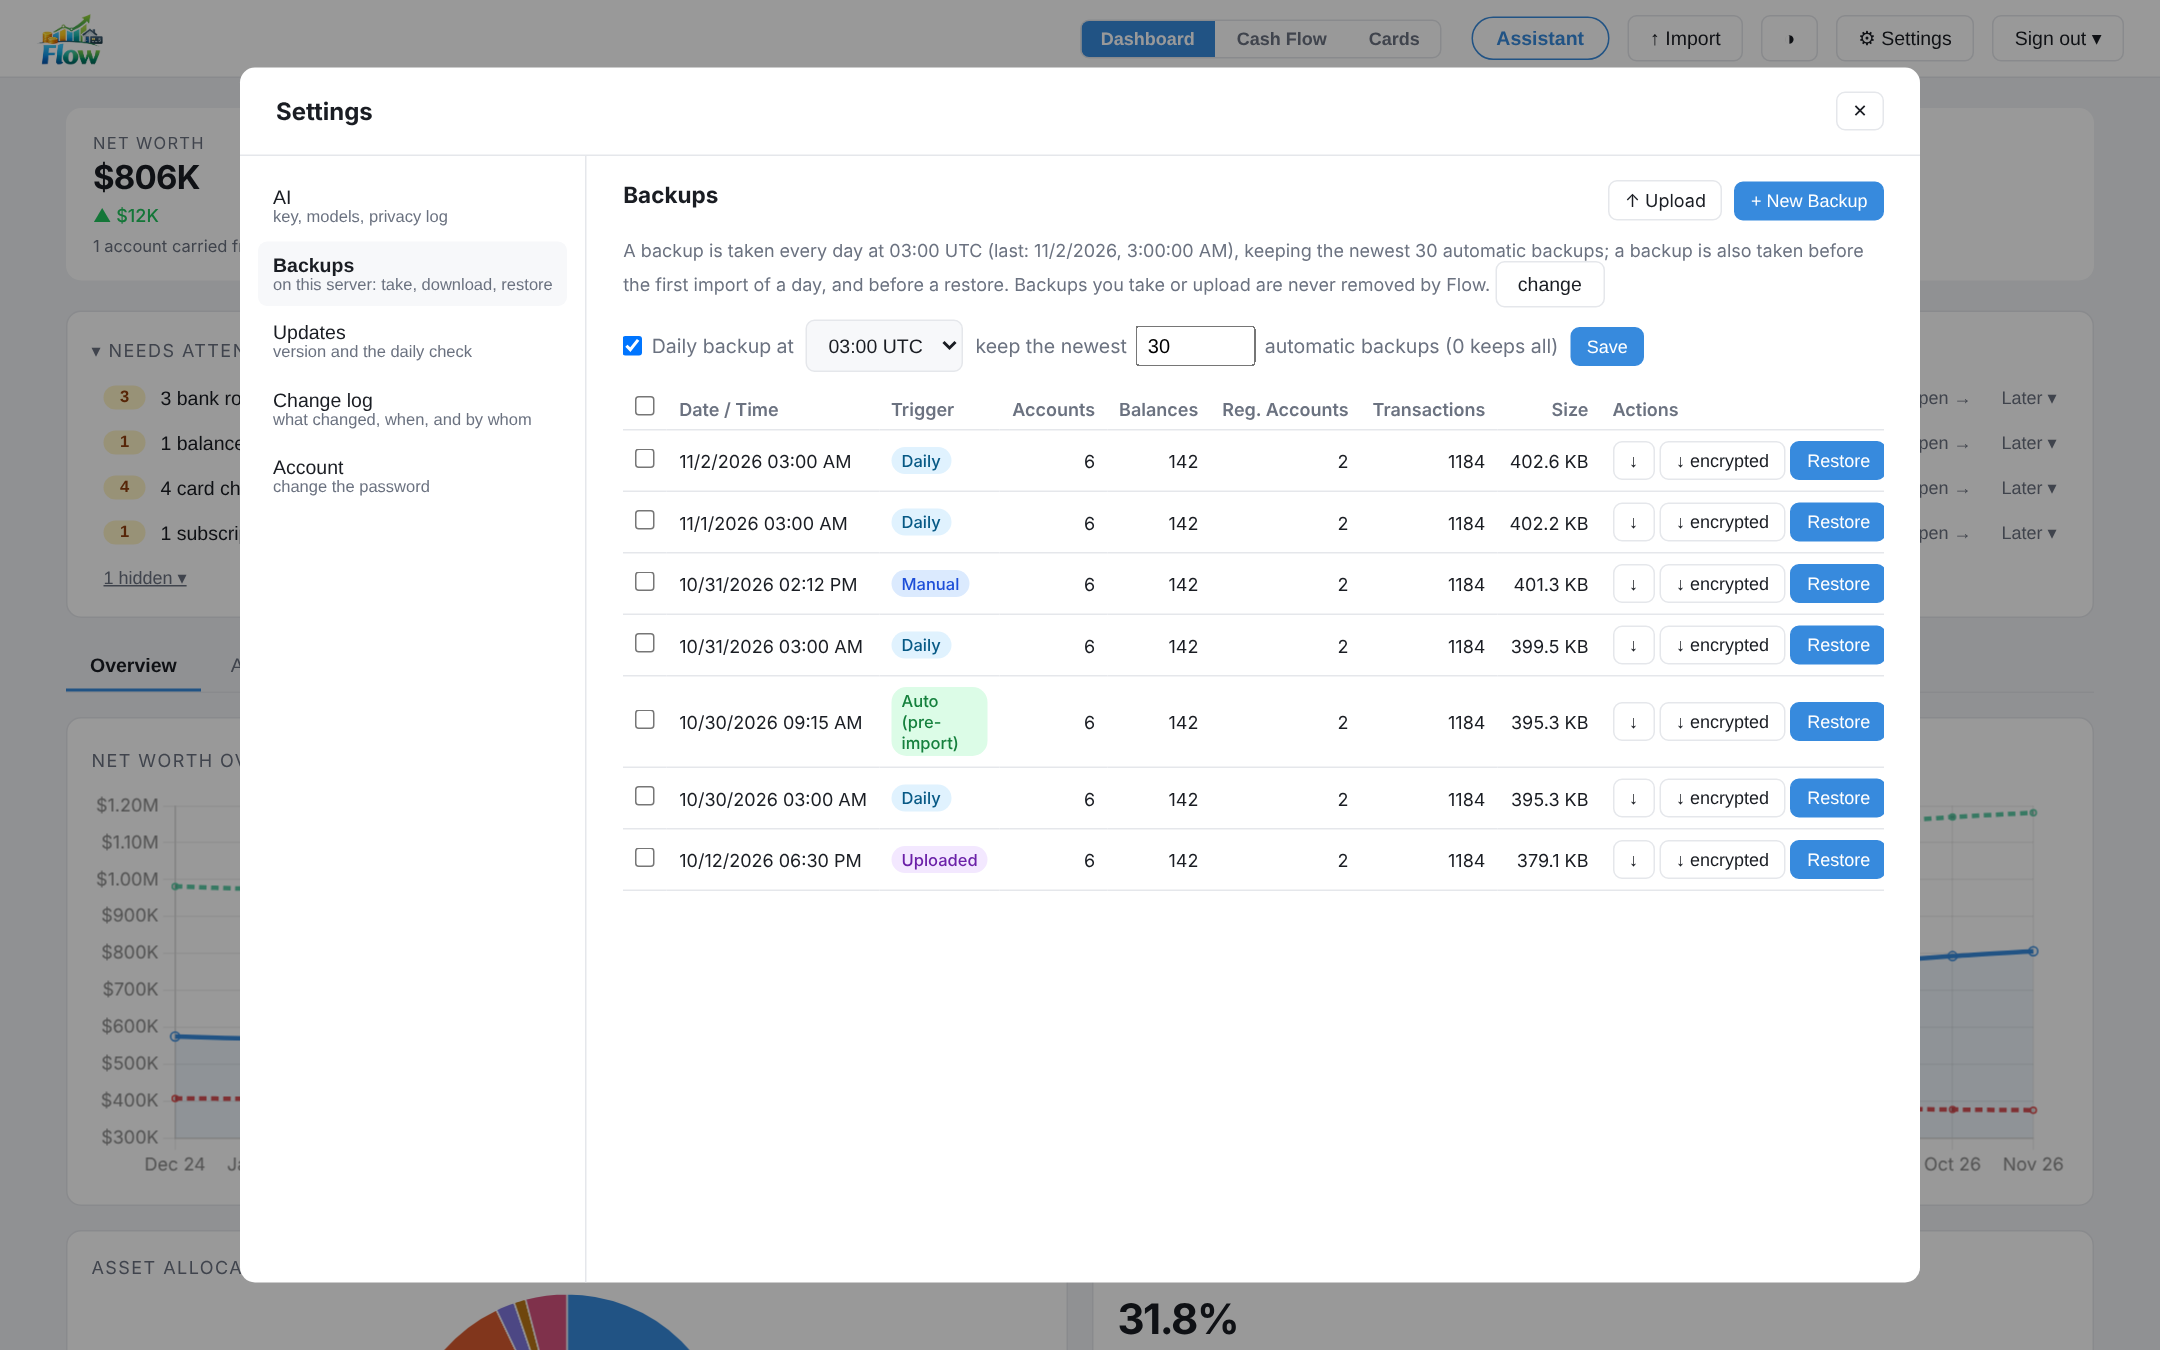
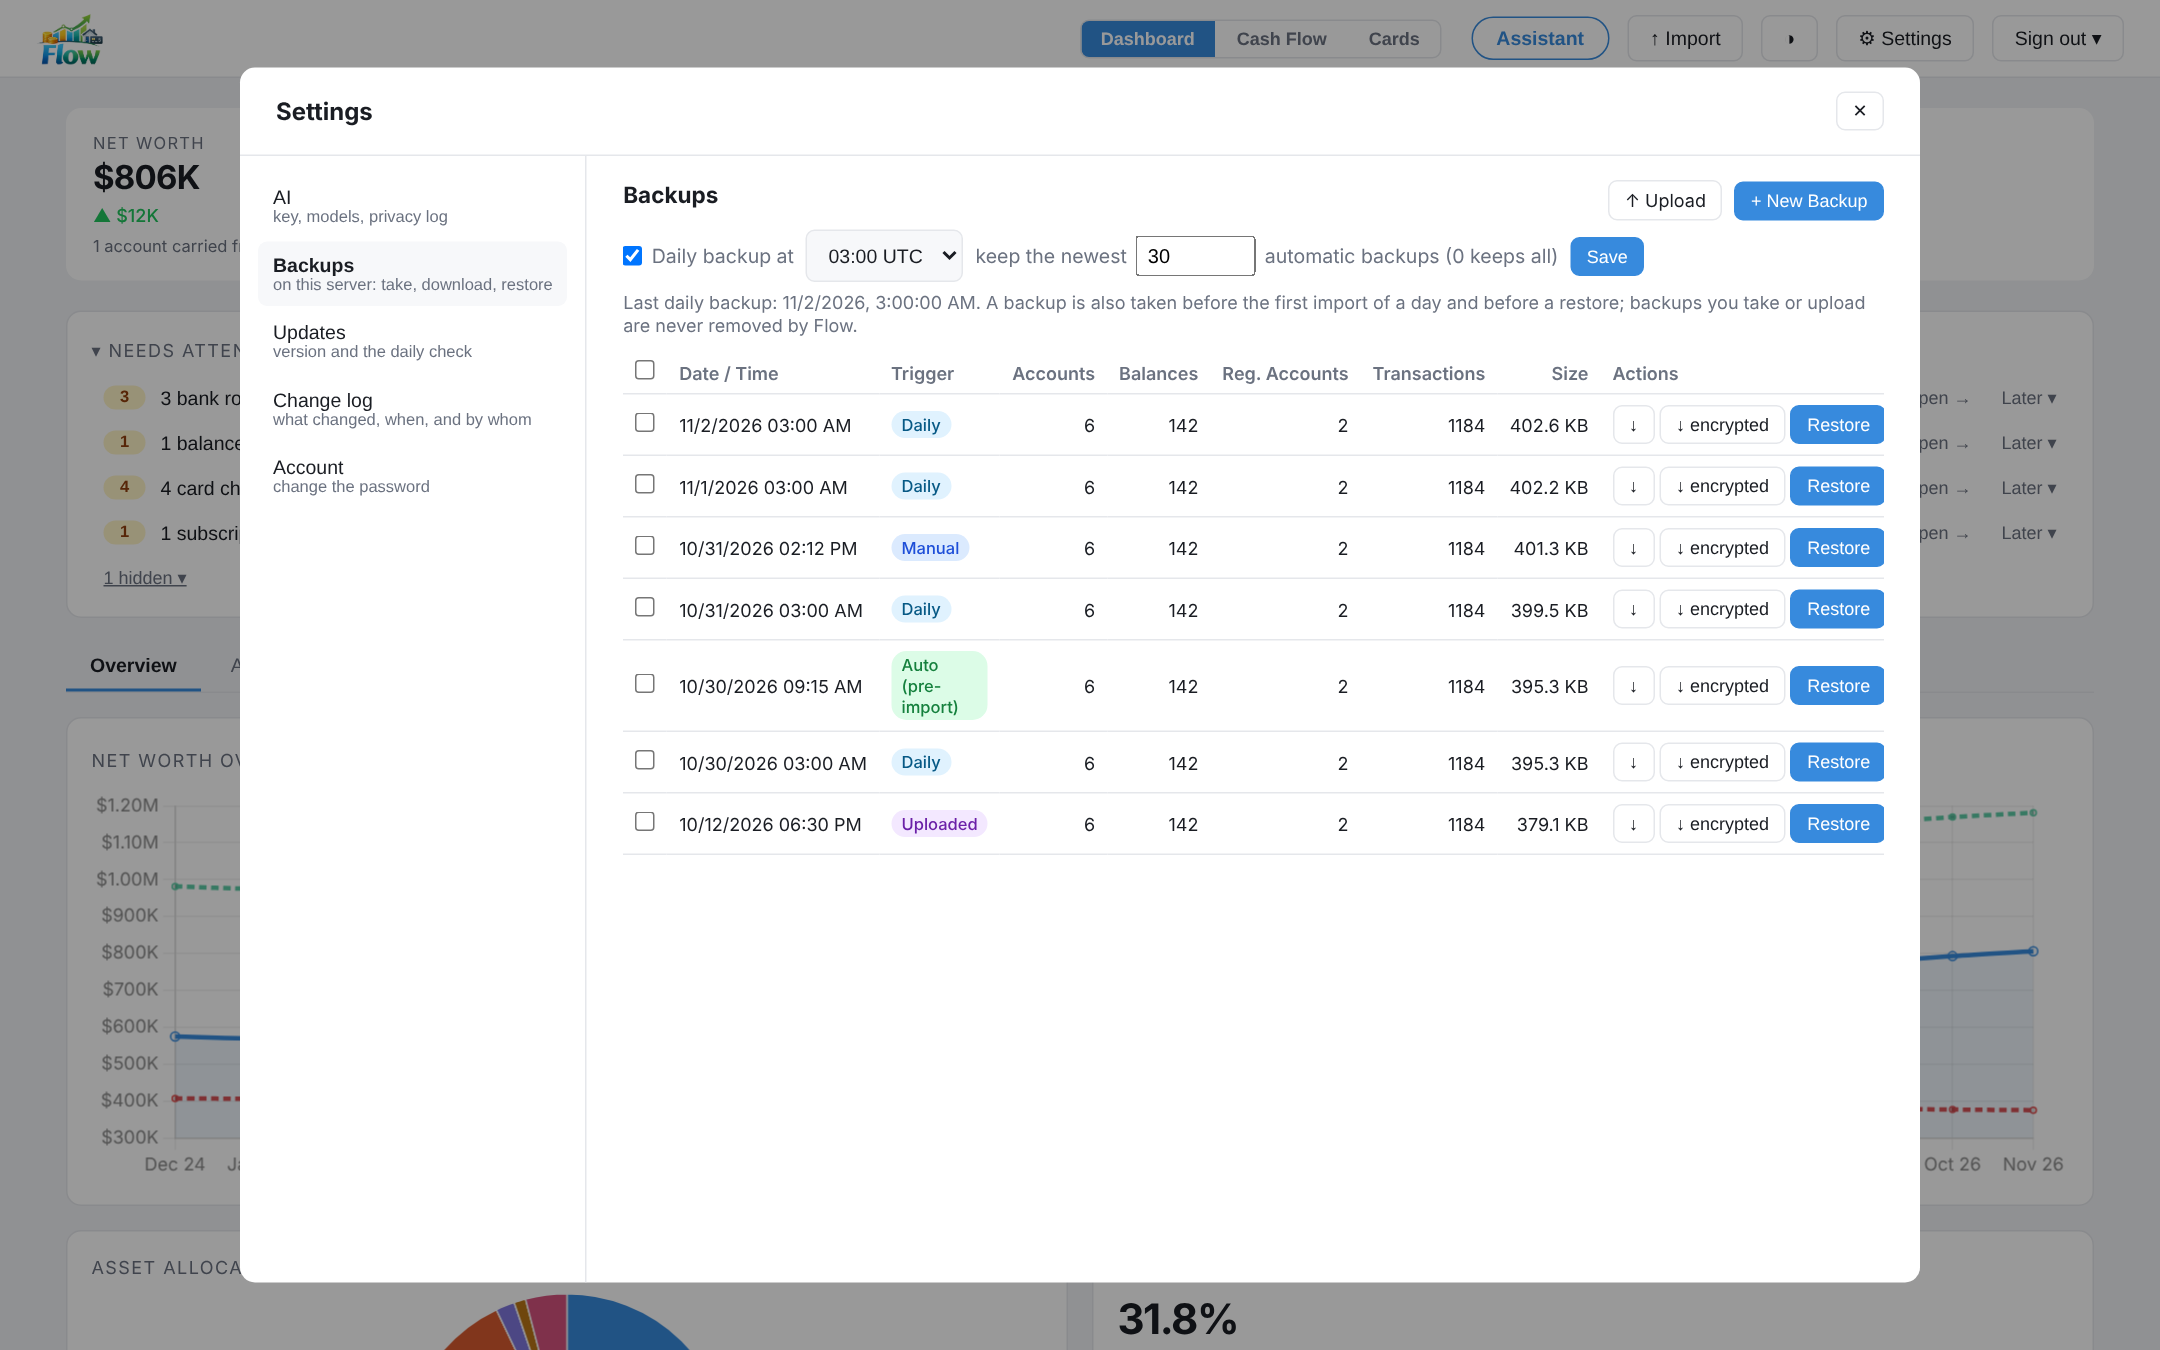
Show the daily backup settings directly instead of behind a "change" button
Settings → Backups now shows the switch, the hour and the keep count as one row, with
Save, and the last daily backup underneath. The "change" button that was meant to reveal
that row is gone.

Claude-Session: https://claude.ai/code/session_01LxiBHtrxDYcqhpWDVEYTao

Changed region(s): [[0.2792, 0.1556, 0.8995, 0.6533], [0.5273, 0.56, 0.5583, 0.6222]]

diff --git a/frontend/index.html b/frontend/index.html
@@ -997,23 +997,18 @@ async function renderBackupSettings() {
   const b = _backupSettings, eff = b.effective;
   const hh = h => String(h).padStart(2, '0') + ':00 UTC';
   const env = [b.backup_daily, b.backup_keep, b.backup_hour].filter(x => x.source === 'env').map(x => x.env_var);
-  const last = b.last_scheduled ? new Date(b.last_scheduled).toLocaleString() : 'not yet';
-  const summary = (eff.daily ? `A backup is taken every day at ${hh(eff.hour)} (last: ${escHtml(last)})` : 'The daily backup is off')
-    + (eff.keep ? `, keeping the newest ${Number(eff.keep)} automatic backups` : ', keeping every automatic backup')
-    + '; a backup is also taken before the first import of a day, and before a restore. Backups you take or upload are never removed by Flow.';
+  const last = b.last_scheduled ? new Date(b.last_scheduled).toLocaleString() : 'none yet';
+  const locked = env.length ? 'disabled' : '';
   const hours = Array.from({length: 24}, (_, h) => `<option value="${h}" ${h === eff.hour ? 'selected' : ''}>${hh(h)}</option>`).join('');
-  el.innerHTML = `<div>${summary} ${env.length ? '' : '<button type="button" class="link" onclick="backupToggleSettings()">change</button>'}</div>
-    ${env.length ? `<div class="ai-env">Set by <code>${escHtml(env.join(', '))}</code> in .env, which wins while it is there. Remove it from .env (<code>./setup.sh</code> offers to) and run <code>./deploy.sh</code> to manage it here.</div>` : ''}
-    <div id="backup-settings-form" class="settings-row hidden" style="margin-top:8px">
-      <label class="cd-check"><input type="checkbox" id="bk-daily" ${eff.daily ? 'checked' : ''}> Daily backup at</label>
-      <select id="bk-hour" style="width:auto">${hours}</select>
-      <label class="cd-check">keep the newest <input type="number" id="bk-keep" min="0" max="3650" value="${Number(eff.keep)}" style="width:80px"> automatic backups (0 keeps all)</label>
-      <button class="btn-primary btn-sm" onclick="backupSaveSettings()">Save</button>
+  el.innerHTML = `<div class="settings-row">
+      <label class="cd-check"><input type="checkbox" id="bk-daily" ${eff.daily ? 'checked' : ''} ${locked}> Daily backup at</label>
+      <select id="bk-hour" style="width:auto" ${locked}>${hours}</select>
+      <label class="cd-check">keep the newest <input type="number" id="bk-keep" min="0" max="3650" value="${Number(eff.keep)}" style="width:80px" ${locked}> automatic backups (0 keeps all)</label>
+      ${locked ? '' : '<button class="btn-primary btn-sm" onclick="backupSaveSettings()">Save</button>'}
       <span id="bk-msg" class="cd-note"></span>
-    </div>`;
-}
-function backupToggleSettings() {
-  document.getElementById('backup-settings-form').classList.toggle('hidden');
+    </div>
+    ${env.length ? `<div class="ai-env">Set by <code>${escHtml(env.join(', '))}</code> in .env, which wins while it is there. Remove it from .env (<code>./setup.sh</code> offers to) and run <code>./deploy.sh</code> to manage it here.</div>` : ''}
+    <div style="margin-top:6px">Last daily backup: ${escHtml(last)}. A backup is also taken before the first import of a day and before a restore; backups you take or upload are never removed by Flow.</div>`;
 }
 async function backupSaveSettings() {
   const body = {daily: document.getElementById('bk-daily').checked, hour: Number(document.getElementById('bk-hour').value),
@@ -1022,7 +1017,9 @@ async function backupSaveSettings() {
   const res = await fetch('/api/backups/settings', {method: 'PUT', headers: {'Content-Type': 'application/json'}, body: JSON.stringify(body)});
   const d = await res.json().catch(() => ({}));
   if (!res.ok) { msg.textContent = typeof d.detail === 'string' ? d.detail : 'Could not save (' + res.status + ').'; return; }
-  renderBackupSettings();
+  await renderBackupSettings();
+  const after = document.getElementById('bk-msg');
+  if (after) after.textContent = 'Saved.';
 }
 
 async function loadBackupList() {
